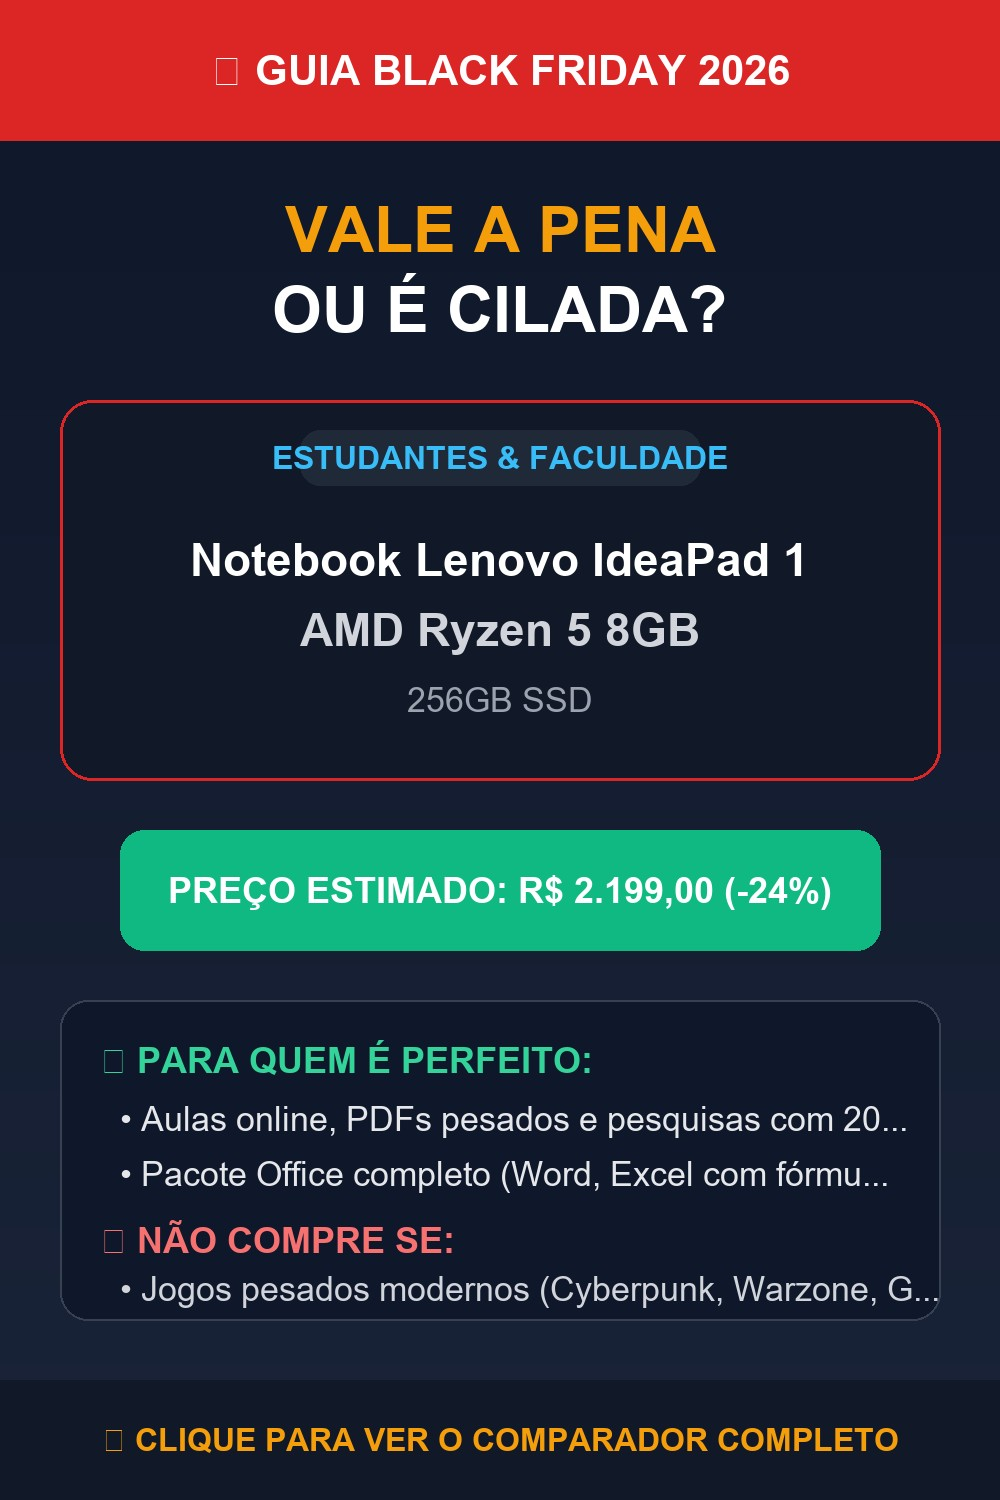
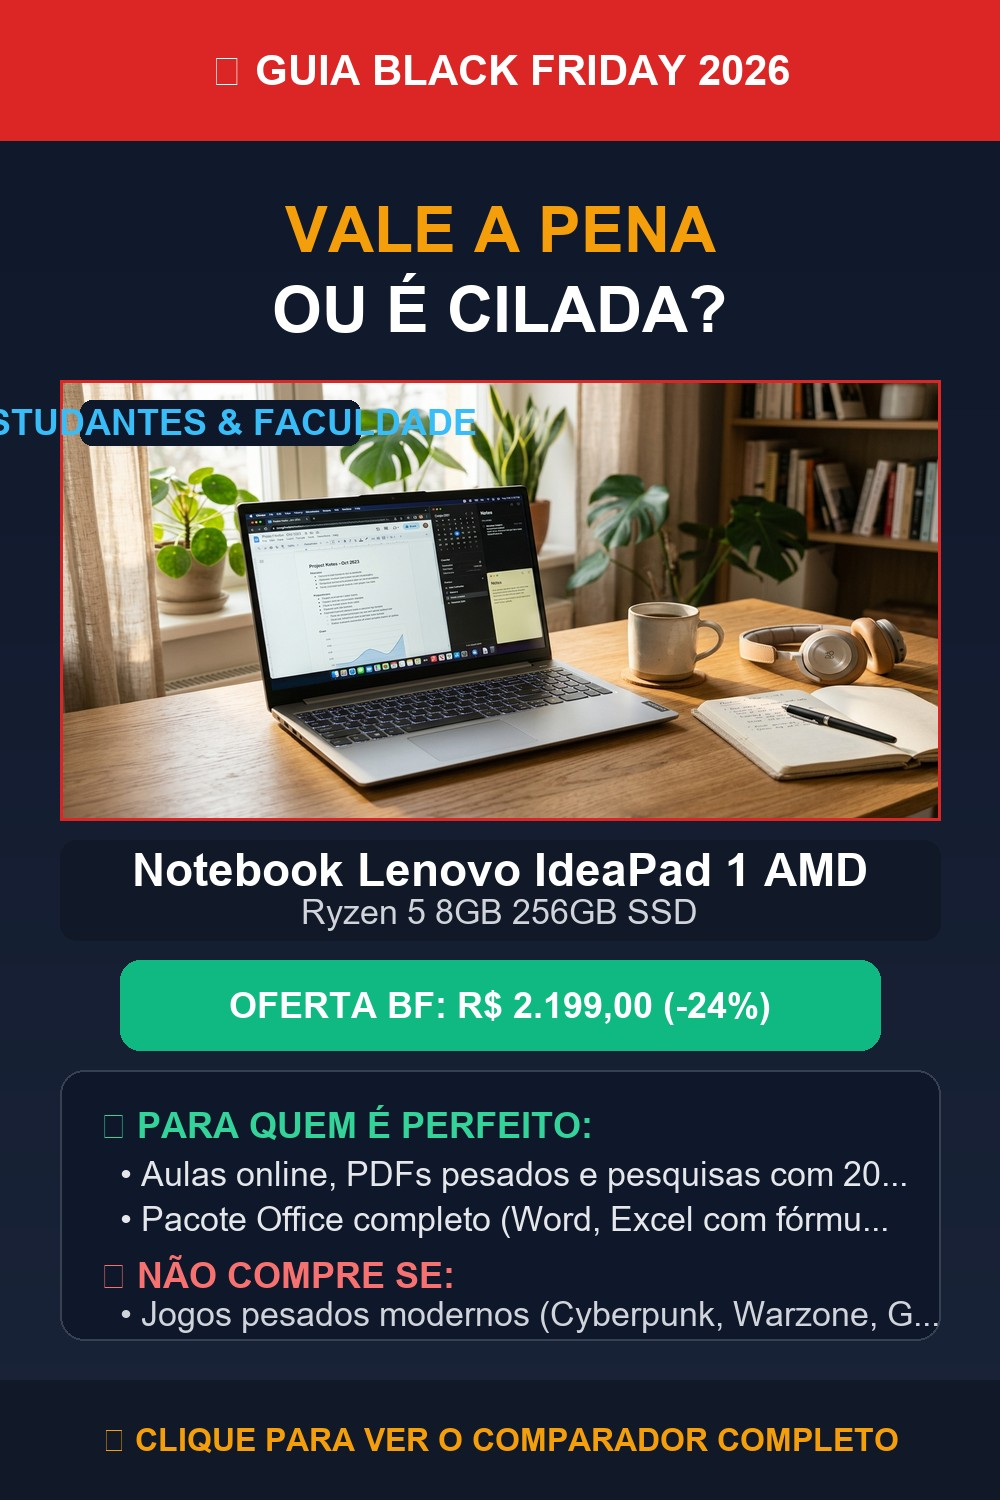
feat: replace graphics with photorealistic commercial product lifestyle in-use shots

diff --git a/scripts/generate_pinterest_pins.py b/scripts/generate_pinterest_pins.py
@@ -55,45 +55,58 @@ def create_pin(product):
     draw.text((width // 2, 230), "VALE A PENA", fill=(245, 158, 11), font=font_hook, anchor="mm")
     draw.text((width // 2, 310), "OU É CILADA?", fill=(255, 255, 255), font=font_hook, anchor="mm")
 
-    # 4. Box Central com Nome do Produto
-    draw.rounded_rectangle([60, 400, width - 60, 780], radius=32, fill=(17, 24, 39), outline=(220, 38, 38), width=3)
+    # 4. Foto Real do Produto e Cena de Uso
+    product_img_path = os.path.join(os.path.dirname(__file__), "..", "public", "products", f"{product['id']}.jpg")
+    photo_box = (60, 380, width - 60, 820)
     
-    # Categoria badge
+    if os.path.exists(product_img_path):
+        try:
+            prod_photo = Image.open(product_img_path).convert("RGB")
+            # Redimensiona para caber perfeitamente no box mantendo aspecto
+            target_w = photo_box[2] - photo_box[0]
+            target_h = photo_box[3] - photo_box[1]
+            prod_photo = prod_photo.resize((target_w, target_h), Image.Resampling.LANCZOS)
+            img.paste(prod_photo, (photo_box[0], photo_box[1]))
+            # Borda estilizada ao redor da foto
+            draw.rectangle([photo_box[0], photo_box[1], photo_box[2], photo_box[3]], outline=(220, 38, 38), width=3)
+        except Exception:
+            draw.rounded_rectangle([photo_box[0], photo_box[1], photo_box[2], photo_box[3]], radius=24, fill=(17, 24, 39), outline=(220, 38, 38), width=3)
+    else:
+        draw.rounded_rectangle([photo_box[0], photo_box[1], photo_box[2], photo_box[3]], radius=24, fill=(17, 24, 39), outline=(220, 38, 38), width=3)
+
+    # Categoria badge sobreposta na foto
     cat_text = product.get("categoryLabel", "").upper()
-    draw.rounded_rectangle([width // 2 - 200, 430, width // 2 + 200, 485], radius=20, fill=(31, 41, 55))
-    draw.text((width // 2, 458), cat_text, fill=(56, 189, 248), font=font_footer, anchor="mm")
+    draw.rounded_rectangle([80, 400, 360, 445], radius=12, fill=(15, 23, 42))
+    draw.text((220, 422), cat_text, fill=(56, 189, 248), font=font_badge, anchor="mm")
 
-    # Nome do produto
+    # Nome do produto abaixo da foto
+    draw.rounded_rectangle([60, 840, width - 60, 940], radius=16, fill=(17, 24, 39))
     words = product["name"].split()
-    l1 = " ".join(words[:4])
-    l2 = " ".join(words[4:8]) if len(words) > 4 else ""
-    l3 = " ".join(words[8:12]) if len(words) > 8 else ""
-
-    draw.text((width // 2, 560), l1, fill=(255, 255, 255), font=font_title, anchor="mm")
+    l1 = " ".join(words[:5])
+    l2 = " ".join(words[5:10]) if len(words) > 5 else ""
+    draw.text((width // 2, 870), l1, fill=(255, 255, 255), font=font_title, anchor="mm")
     if l2:
-        draw.text((width // 2, 630), l2, fill=(209, 213, 219), font=font_title, anchor="mm")
-    if l3:
-        draw.text((width // 2, 700), l3, fill=(156, 163, 175), font=font_body, anchor="mm")
+        draw.text((width // 2, 912), l2, fill=(209, 213, 219), font=font_body, anchor="mm")
 
     # 5. Destaque de Preço e Desconto
     price = product.get("estimatedPrice", "")
     disc = product.get("discountPercentage", 0)
-    draw.rounded_rectangle([120, 830, width - 120, 950], radius=24, fill=(16, 185, 129))
-    draw.text((width // 2, 890), f"PREÇO ESTIMADO: {price} (-{disc}%)", fill=(255, 255, 255), font=font_badge, anchor="mm")
+    draw.rounded_rectangle([120, 960, width - 120, 1050], radius=20, fill=(16, 185, 129))
+    draw.text((width // 2, 1005), f"OFERTA BF: {price} (-{disc}%)", fill=(255, 255, 255), font=font_badge, anchor="mm")
 
     # 6. Para quem serve (Diferencial)
-    draw.rounded_rectangle([60, 1000, width - 60, 1320], radius=28, fill=(15, 23, 42), outline=(55, 65, 81), width=2)
-    draw.text((100, 1040), "🟢 PARA QUEM É PERFEITO:", fill=(52, 211, 153), font=font_badge)
+    draw.rounded_rectangle([60, 1070, width - 60, 1340], radius=24, fill=(15, 23, 42), outline=(55, 65, 81), width=2)
+    draw.text((100, 1105), "🟢 PARA QUEM É PERFEITO:", fill=(52, 211, 153), font=font_badge)
     
-    y_offset = 1100
+    y_offset = 1155
     for item in product["useCases"]["perfectFor"][:2]:
         draw.text((120, y_offset), f"• {item[:45]}...", fill=(229, 231, 235), font=font_body)
-        y_offset += 55
+        y_offset += 45
 
     not_for = product["useCases"]["notRecommendedFor"][0] if product["useCases"]["notRecommendedFor"] else ""
     if not_for:
-        draw.text((100, 1220), "🔴 NÃO COMPRE SE:", fill=(248, 113, 113), font=font_badge)
-        draw.text((120, 1270), f"• {not_for[:45]}...", fill=(209, 213, 219), font=font_body)
+        draw.text((100, 1255), "🔴 NÃO COMPRE SE:", fill=(248, 113, 113), font=font_badge)
+        draw.text((120, 1295), f"• {not_for[:45]}...", fill=(209, 213, 219), font=font_body)
 
     # 7. Rodapé com Chamada para Ação e Link
     draw.rectangle([0, height - 120, width, height], fill=(17, 24, 39))
